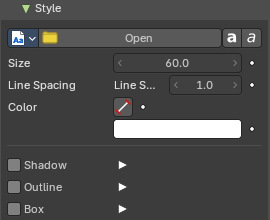
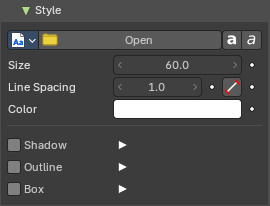
Text strip Style: retake after the label fix, toggle next to the field #1748

diff --git a/docs2/content/editors/video-sequence-editor/sidebar/index.md b/docs2/content/editors/video-sequence-editor/sidebar/index.md
@@ -718,7 +718,7 @@ Size of the text.
 
 ##### Line Spacing
 
-The space between lines when the text has more than one line. By default it is a factor of the text size: 1.0 is normal, 2.0 is double. The small button below it switches to a fixed spacing in pixels.
+The space between lines when the text has more than one line. By default it is a factor of the text size: 1.0 is normal, 2.0 is double. The small button next to the field switches to a fixed spacing in pixels.
 
 ###### Color
 

diff --git a/docs2/content/editors/properties/strip-tab.md b/docs2/content/editors/properties/strip-tab.md
@@ -443,7 +443,7 @@ Size of the text.
 
 ##### Line Spacing
 
-The space between lines when the text has more than one line. By default it is a factor of the text size: 1.0 is normal, 2.0 is double. The small button below it switches to a fixed spacing in pixels.
+The space between lines when the text has more than one line. By default it is a factor of the text size: 1.0 is normal, 2.0 is double. The small button next to the field switches to a fixed spacing in pixels.
 
 ##### Color
 
